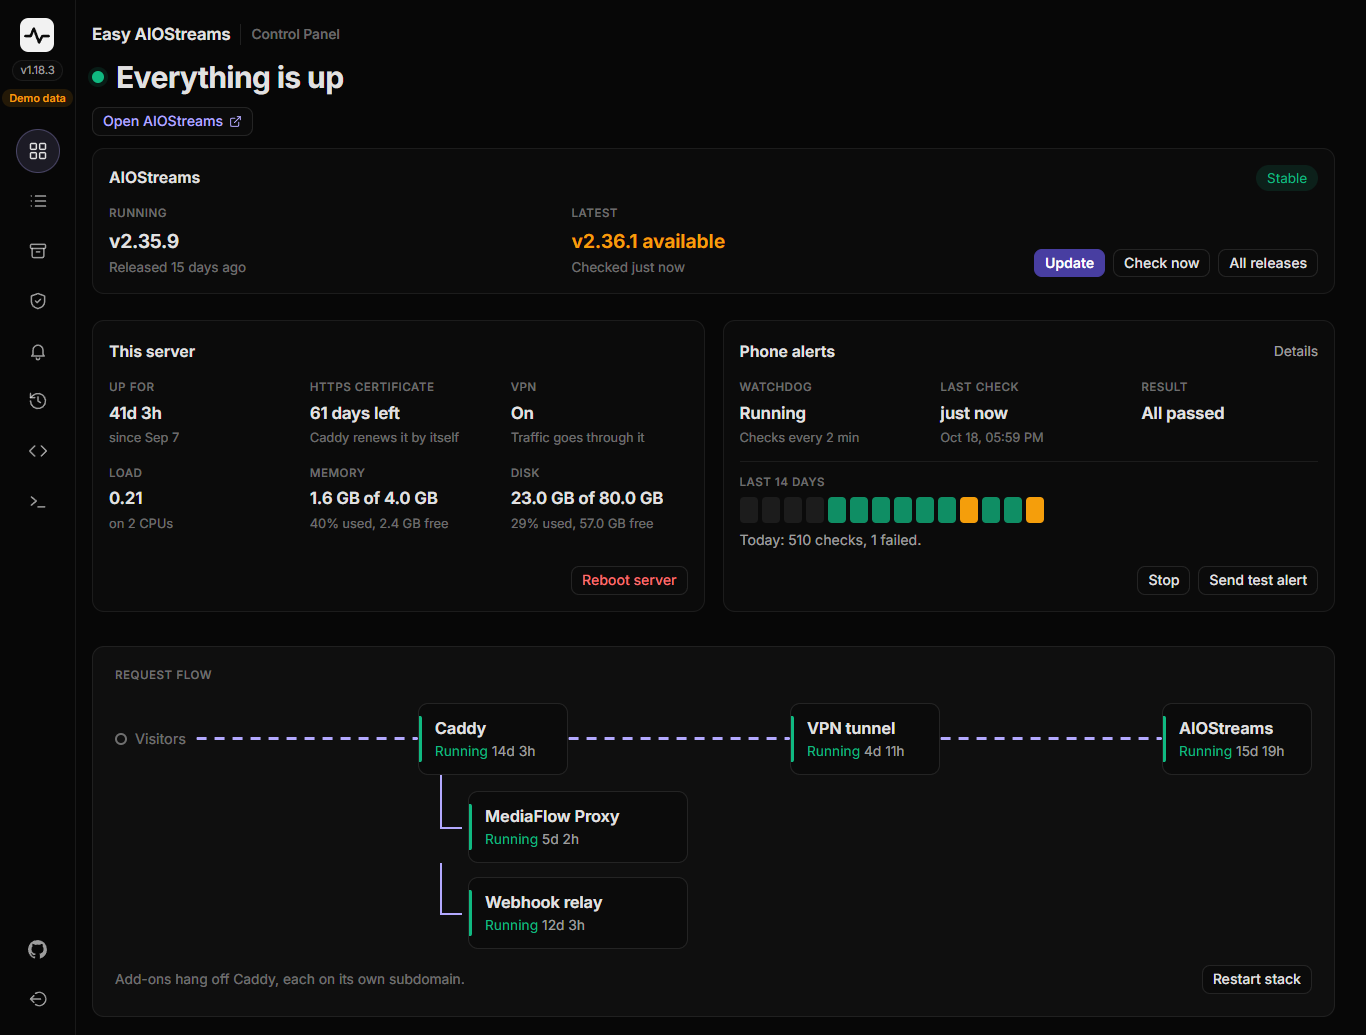
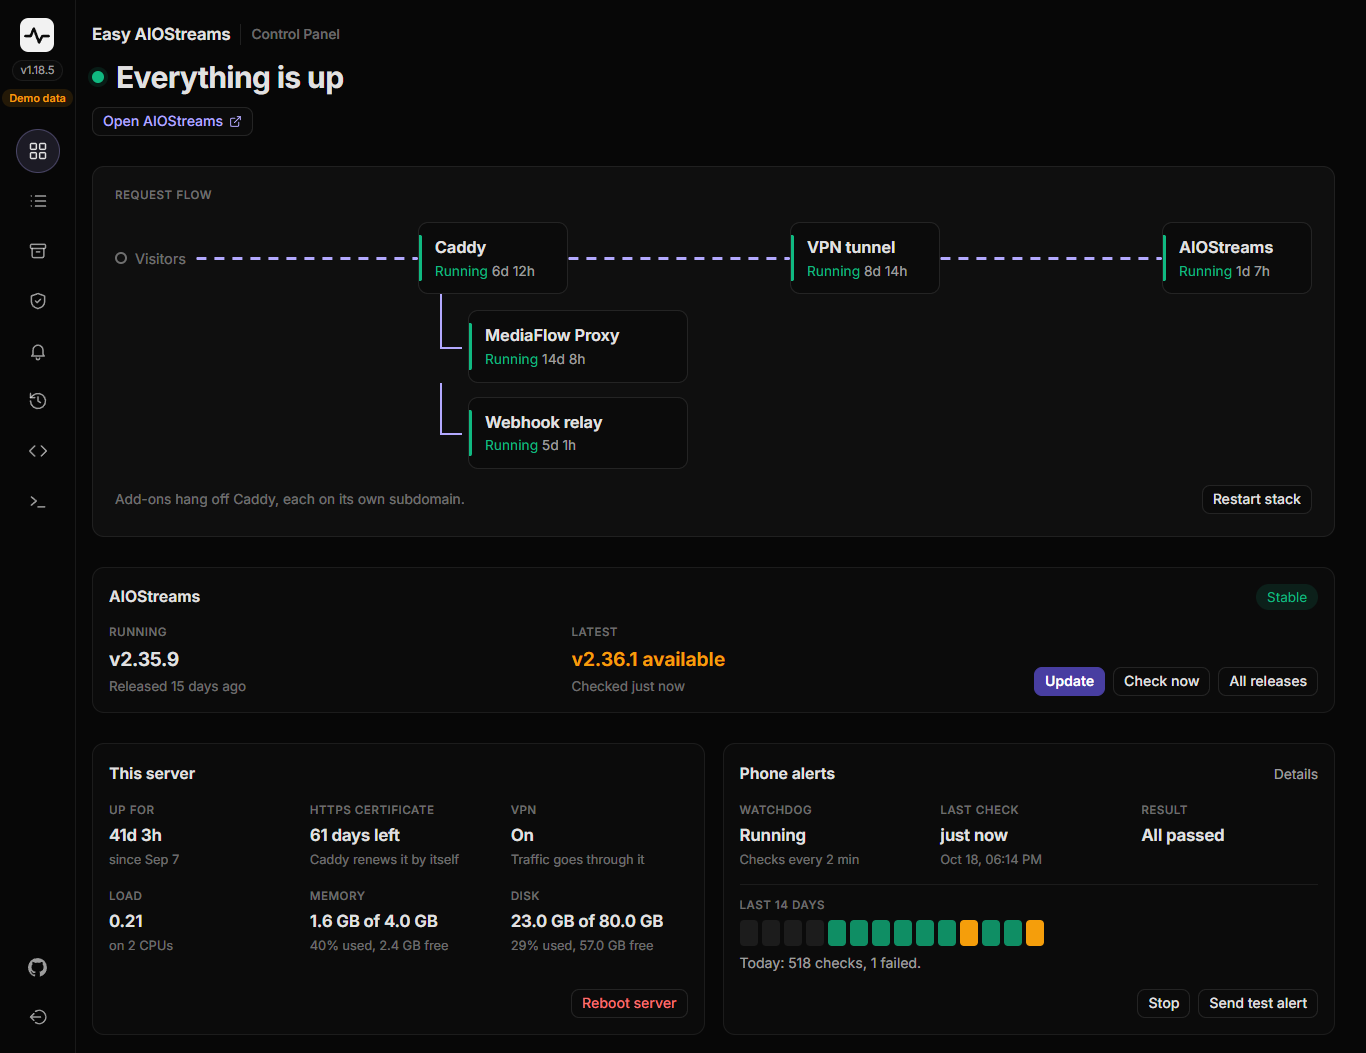
Panel 1.18.5: the request flow first on desktop
On wide screens the request flow now sits right under the headline it
illustrates, then the version card, the server cards and the services.
The version card gets a slot of its own for this; phones keep their
order (version first, then the flow). Overview screenshots retaken.

diff --git a/control-panel/web/css/app.css b/control-panel/web/css/app.css
@@ -201,7 +201,9 @@ button.chip:hover { text-decoration: underline; }
 .toolbar { display: flex; flex-wrap: wrap; gap: 12px 8px; margin-top: 6px; align-items: center; }
 .busy-note { color: var(--dim); font-size: .92rem; display: inline-flex; gap: 8px; align-items: center; }
 
-/* the AIOStreams version card under the headline */
+/* the AIOStreams version card under the headline (its slot follows the hero) */
+.ver-slot { margin: -14px 0 26px; }
+.ver-slot:empty { display: none; }
 .ver-card { padding: 16px 20px 18px; }
 .ver-head { display: flex; align-items: center; justify-content: space-between; gap: 12px; }
 .ver-head h2 { margin: 0; font-size: .98rem; font-weight: 650; }
@@ -792,10 +794,12 @@ html:has(> body.bare) { scrollbar-gutter: auto; }
 @media (min-width: 1141px) {
   #view-overview:not([hidden]) { display: grid; grid-template-columns: minmax(0, 1fr); }
   #view-overview .cols { display: contents; }
+  /* the request flow first, right under the headline it illustrates */
   #view-overview .hero { order: 1; }
-  #view-overview .side { order: 2; margin-bottom: 30px; grid-auto-flow: column; grid-auto-columns: minmax(0, 1fr); align-items: stretch; }
-  #view-overview .path { order: 3; }
-  #view-overview .cols > div { order: 4; }
+  #view-overview .path { order: 2; }
+  #view-overview .ver-slot { order: 3; margin: 0 0 30px; }
+  #view-overview .side { order: 4; margin-bottom: 30px; grid-auto-flow: column; grid-auto-columns: minmax(0, 1fr); align-items: stretch; }
+  #view-overview .cols > div { order: 5; }
   /* alone in the row (no Phone alerts): all six in one line */
   .panel.host:only-child .stat-grid { grid-template-columns: repeat(6, minmax(0, 1fr)); }
   .panel.host, .panel.wd { display: flex; flex-direction: column; }

diff --git a/control-panel/web/js/overview.js b/control-panel/web/js/overview.js
@@ -144,7 +144,10 @@ function hero(st) {
       title: `Opens https://${st.domain} in a new tab` }, "Open AIOStreams", extIcon())));
     // The certificate lives in This server; it comes up here only when it needs attention.
     if (st.cert && (!st.cert.ok || st.cert.days_left < 21)) el.append(h("div", { class: "hero-meta" }, certChip(st, true)));
-    if (st.version) el.append(versionCard(st, avail));
+    // The version card has a slot of its own, so wide screens can put the request flow above it
+    const ver = $("#ver");
+    clear(ver);
+    if (st.version) ver.append(versionCard(st, avail));
 
     if (!st.installed) {
       el.append(h("p", { class: "empty", text: "AIOStreams isn't installed on this server yet. Run setup-aiostreams.sh over SSH first." }));

diff --git a/control-panel/web/index.html b/control-panel/web/index.html
@@ -50,6 +50,7 @@
   <div class="page-brand"><span>Easy AIOStreams</span><span class="page-brand-sub">Control Panel</span></div>
   <section class="view" id="view-overview" aria-label="Overview">
     <div class="hero" id="hero"></div>
+    <div class="ver-slot" id="ver"></div>
     <div class="path" id="path"></div>
     <div class="cols">
       <div>
